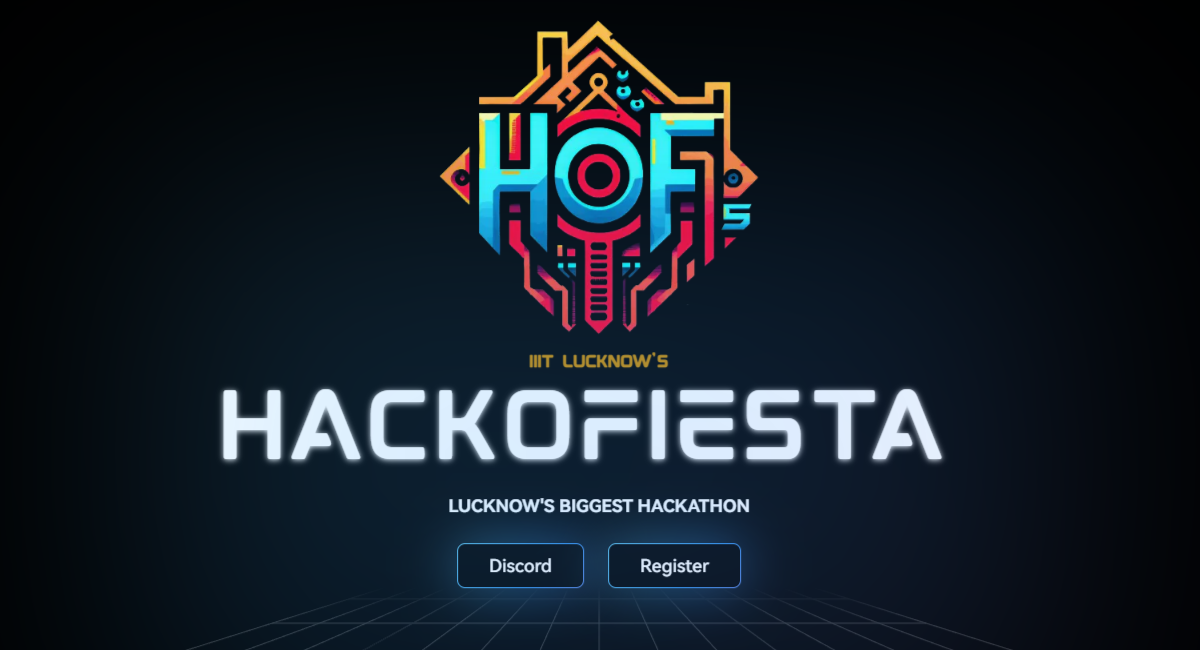
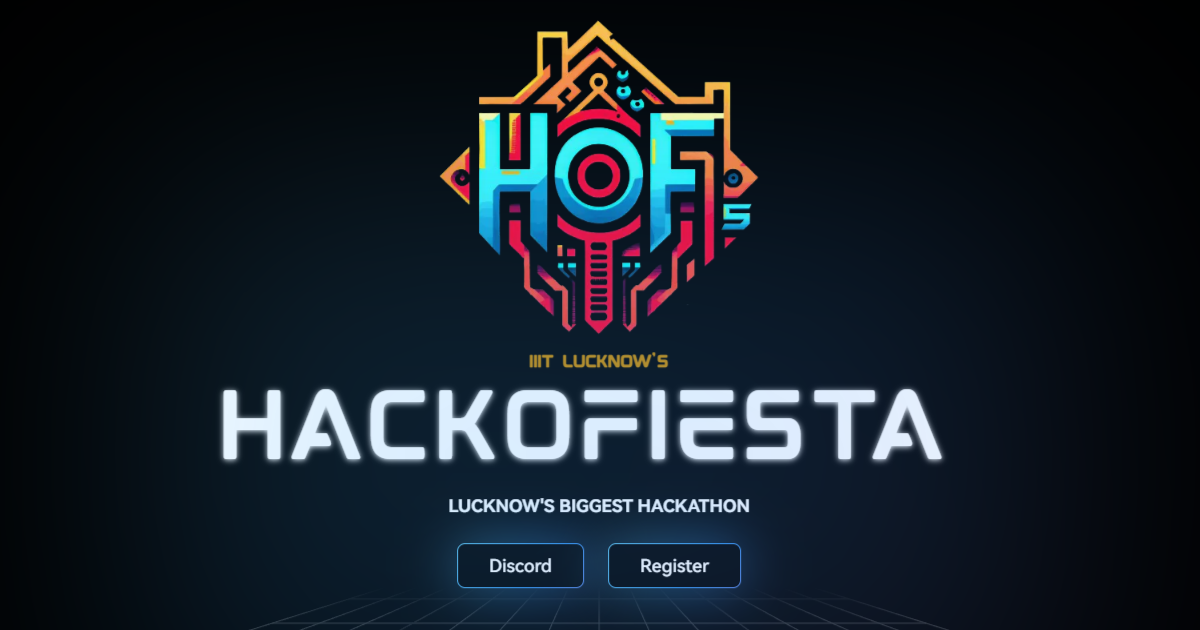
og: 1200x650 -> 1200x630

Changed region(s): [[0.185, 0.0302, 0.8017, 0.9952], [0.7708, 0.9952, 0.8017, 1.0], [0.185, 0.9952, 0.2158, 1.0]]

diff --git a/client/app/layout.js b/client/app/layout.js
@@ -33,7 +33,7 @@ export const metadata = {
       {
         url: "/og0.png",
         width: 1200,
-        height: 650,
+        height: 630,
         alt: "Hackofiesta Landing Page",
         type: "image/png",
       },
